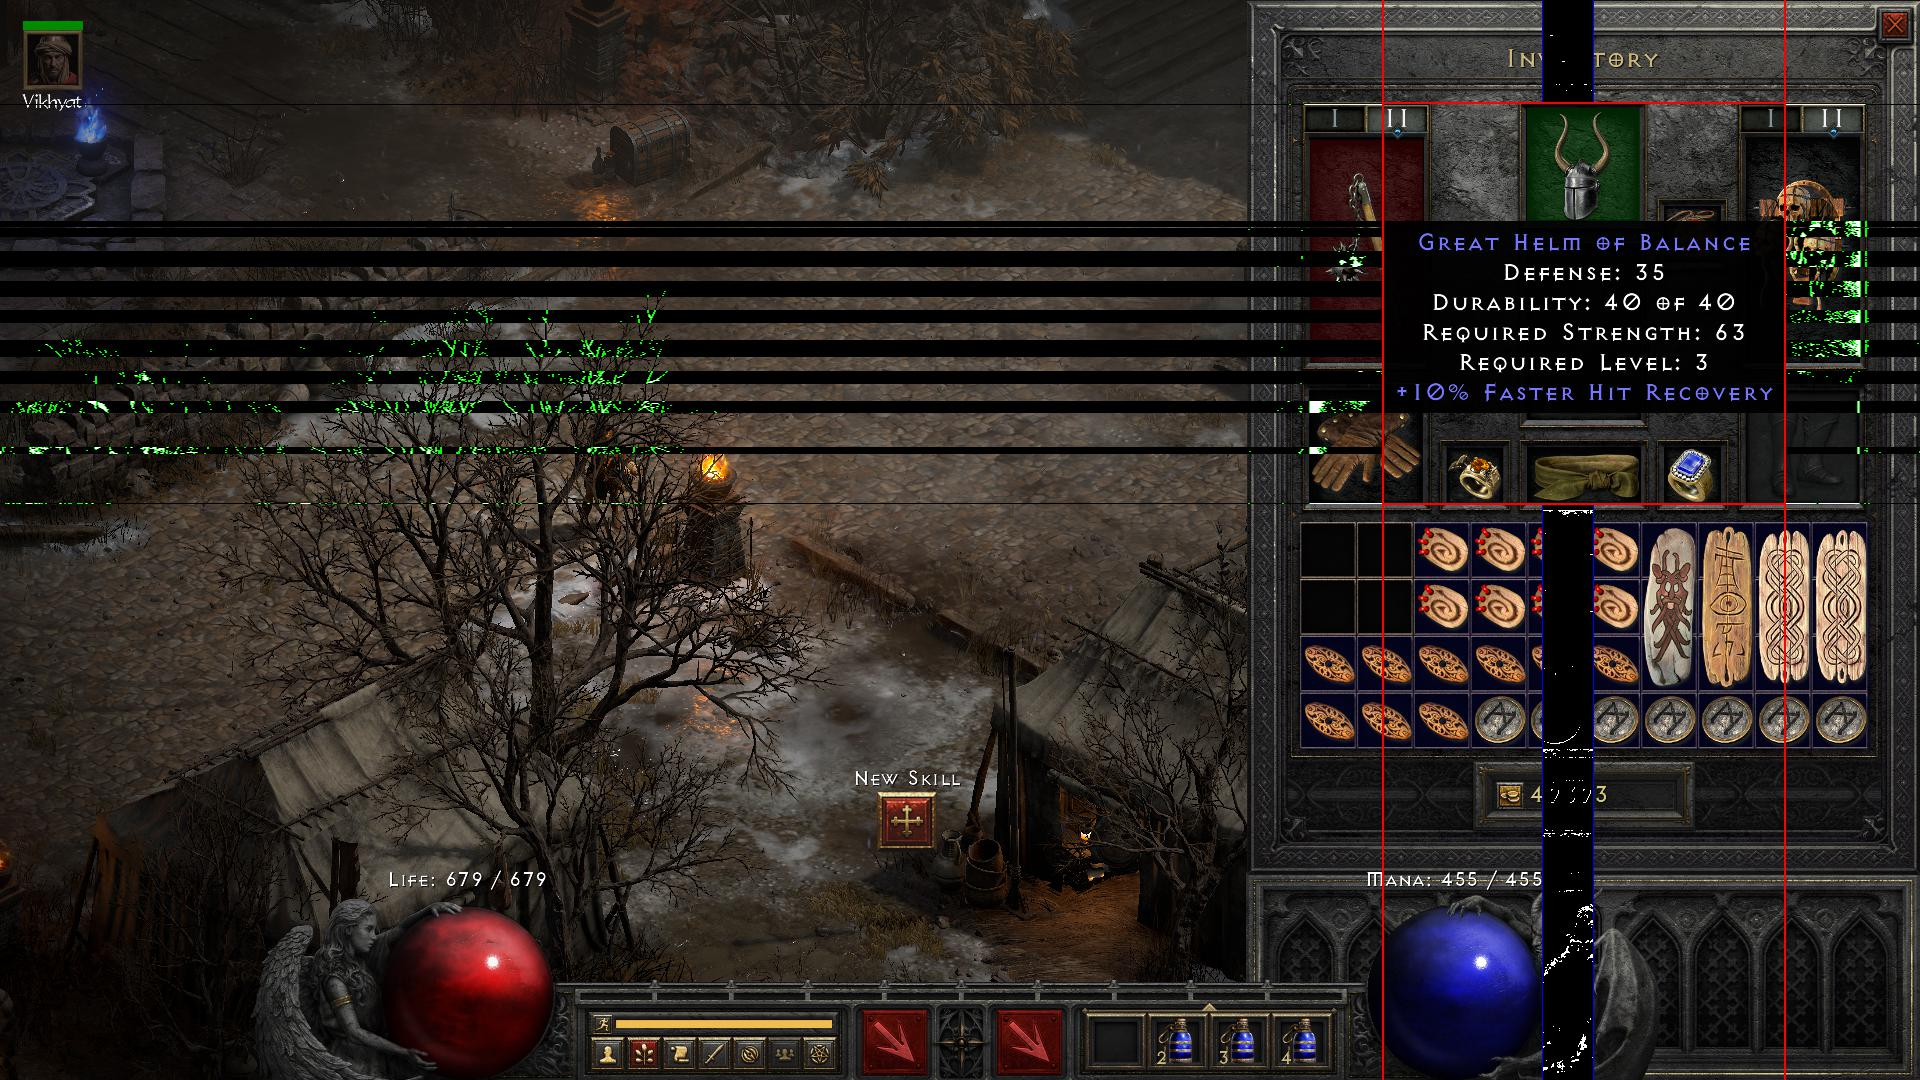
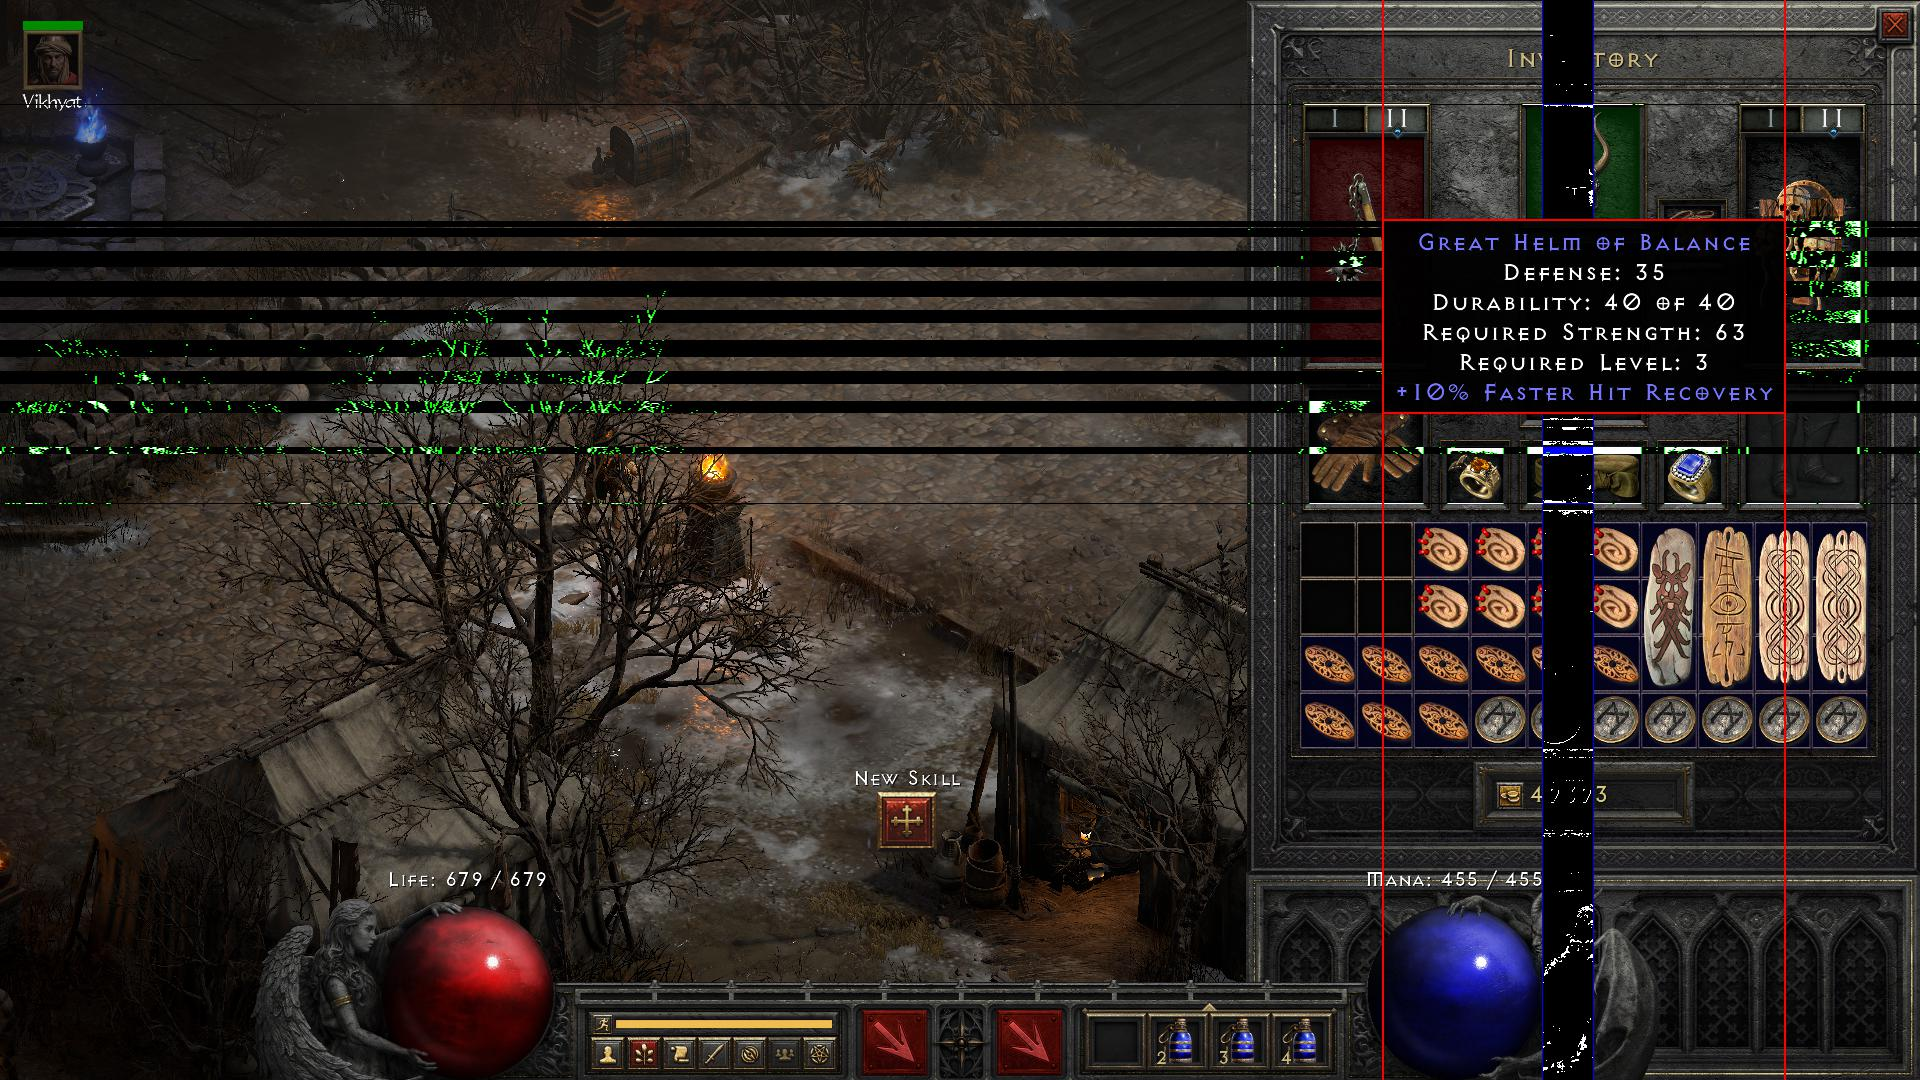
Improve item box vertical edge detection

Changed region(s): [[0.7188, 0.3667, 0.9375, 0.4889], [0.7188, 0.0917, 0.9062, 0.2139]]

diff --git a/test_inventory.py b/test_inventory.py
@@ -125,19 +125,18 @@ if __name__ == "__main__":
                 bgr_docs, "docs/item_description_detection/step6_horizontal_max.jpg")
 
         # 7. Find top and bottom
-        horizontal_lines_with_edges = np.bitwise_and(horizontal_mask[:, left + 1],
-                                                     horizontal_mask[:, right - 1])
+        horizontal_filled_lines = horizontal_mask[:, left:right].sum(
+            axis=1) > (right - left) * .95
 
-        top = filled_y_values[horizontal_lines_with_edges.argmax()]
+        top = filled_y_values[horizontal_filled_lines.argmax()]
         bottom = filled_y_values[len(filled_y_values) -
-                                 np.flip(horizontal_lines_with_edges).argmax() - 1]
+                                 np.flip(horizontal_filled_lines).argmax() - 1]
 
         if bottom - top < 50:
             continue
 
         # step 7 docs
         if write_docs:
-            print(horizontal_mask)
             bgr_docs[top-2:top, left:right] = (0, 0, 255)
             bgr_docs[bottom:bottom+2, left:right] = (0, 0, 255)
 

diff --git a/diablorun_igt/inventory_detection.py b/diablorun_igt/inventory_detection.py
@@ -163,12 +163,12 @@ def get_item_description_rect(bgr, cursor):
         return None
 
     # 7. Find top and bottom
-    horizontal_lines_with_edges = np.bitwise_and(horizontal_mask[:, left + 1],
-                                                 horizontal_mask[:, right - 1])
+    horizontal_filled_lines = horizontal_mask[:, left:right].sum(
+        axis=1) > (right - left) * .95
 
-    top = filled_y_values[horizontal_lines_with_edges.argmax()]
+    top = filled_y_values[horizontal_filled_lines.argmax()]
     bottom = filled_y_values[len(filled_y_values) -
-                             np.flip(horizontal_lines_with_edges).argmax() - 1]
+                             np.flip(horizontal_filled_lines).argmax() - 1]
 
     if bottom - top < 50:
         return None
